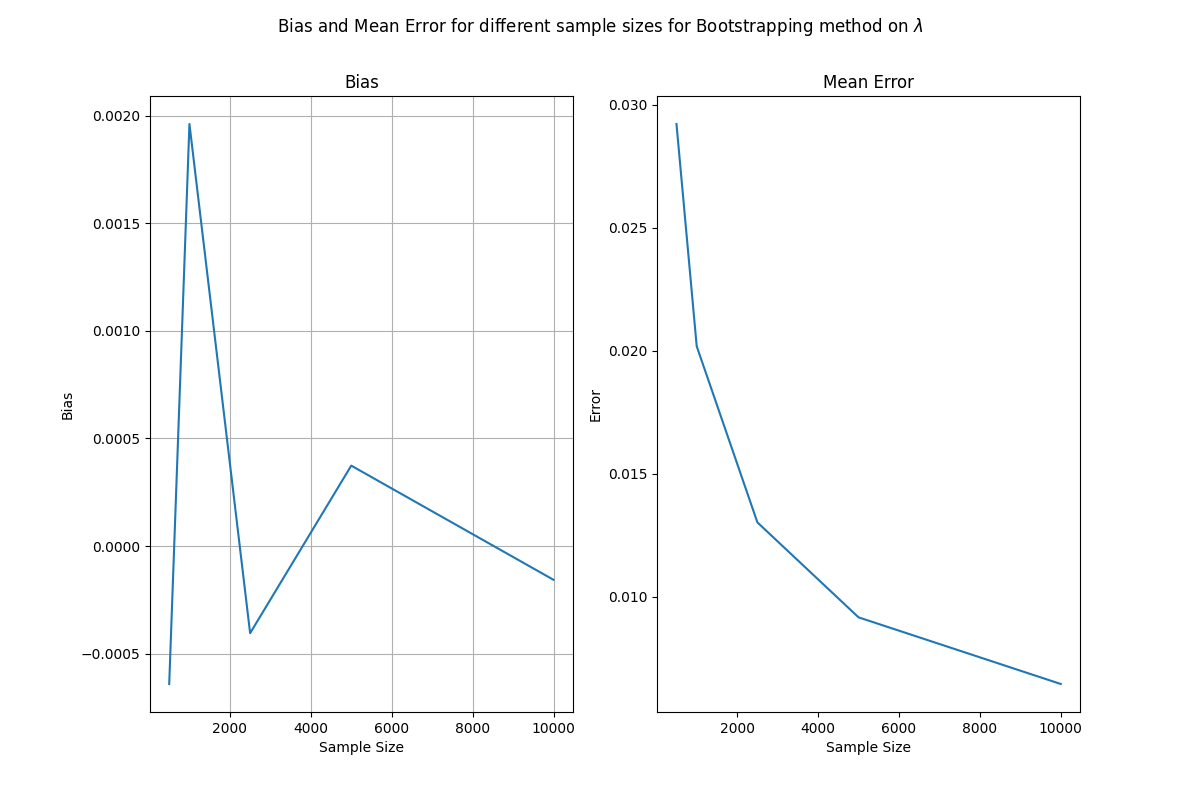
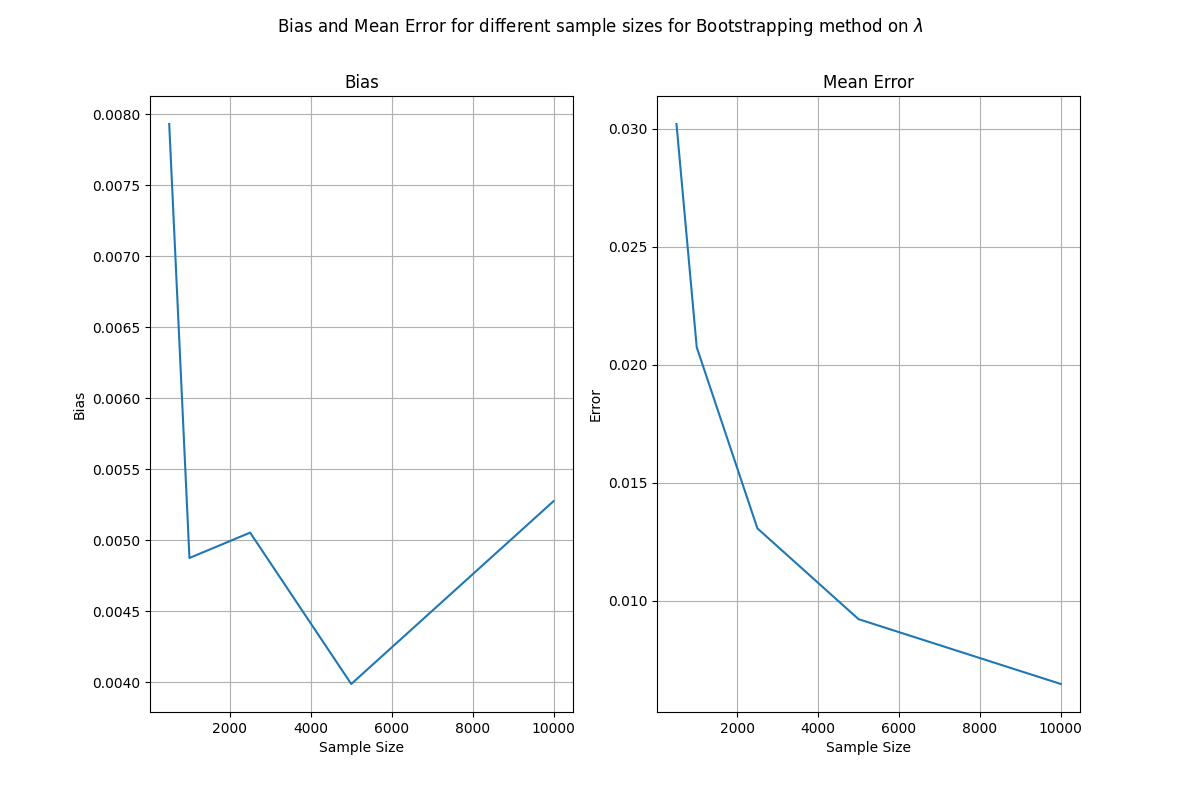
modified sWeight implementation

diff --git a/code/sweight_projection.py b/code/sweight_projection.py
@@ -1,7 +1,7 @@
 import numpy as np
 from generate_sample import fitting, generate_sample
 from tqdm import tqdm
-from sweights import Cows 
+from sweights import SWeight, Cows 
 from total_model import TotalModel
 from iminuit import Minuit
 from iminuit.cost import ExtendedUnbinnedNLL
@@ -47,8 +47,24 @@ def get_sweights(x, lamb = 0.3, mu_b = 0, sigma_b = 2.5):
     mi = fitting_x(x)
     model = TotalModel(*mi.values['mu','sigma', 'beta','m','f'], lamb, mu_b, sigma_b)
 
-    sw = Cows(x, model.gs, model.gb)
-    return sw(x)
+    # sw = Cows(x, model.gs, model.gb)
+    N = mi.values['N']
+    f = mi.values['f']
+    N_signal = N * f
+    N_background = N * (1 - f)
+    def x_signal_pdf(x_vals):
+        return model.gs(x_vals)
+    
+    def x_background_pdf(x_vals):
+        return model.gb(x_vals)
+    
+    sweighter = SWeight(x, pdfs=[x_signal_pdf, x_background_pdf], yields=[N_signal, N_background])
+
+    weights = sweighter.get_weight(0,x)
+    
+    # return sw(x)
+
+    return weights
 
 def estimate_y(x, y):
     '''

diff --git a/code/analyze_efg.py b/code/analyze_efg.py
@@ -27,8 +27,8 @@ ax1.set_xlabel("Sample Size")
 ax1.set_ylabel("Error")
 plt.suptitle('Bias and Mean Error for different sample sizes for Bootstrapping method on $\lambda$')
 output_file = output_dir / "e_bootstrape_plot.png"  
-plt.savefig(output_file)   
 ax1.grid(True)
+plt.savefig(output_file)  
 plt.show()
 
 error_sweight = np.load('code/sweight_errors.npy')
@@ -56,8 +56,9 @@ ax1.set_ylabel("Error")
 ax1.set_xlabel("Sample Size")
 plt.suptitle('Bias and Mean Error for different sample sizes for SWeighting method on $\lambda$', fontsize=16)
 output_file = output_dir / "f_sweight_plot.png"  
-plt.savefig(output_file) 
+
 ax1.grid(True)
+plt.savefig(output_file) 
 plt.show()
 
 #Mixed bias and mean error plot

diff --git a/code/bootstrape.py b/code/bootstrape.py
@@ -16,11 +16,11 @@ def bootstrape(toys,mi):
         mi_t = fitting(toy[0],toy[1])
         lambda_hat = mi_t.values["lamb"]
         lambda_err = mi_t.errors["lamb"]
-        values.append(lambda_hat) 
+        values.append(lambda_hat)
         errors.append(lambda_err)
     return np.array(values), np.array(errors)
 
-
+ 
 x, y = generate_sample(100000)
 mi = fitting(x, y)
 print(*mi.values[1:])
@@ -44,7 +44,7 @@ for size in sample_sizes:
     values, errors = bootstrape(toys, mi)
     val.append(values)
     err.append(errors)
-    
+     
 
 np.save('code/bootstrap_lambda_values.npy', np.array(val))
 np.save('code/bootstrap_errors.npy', np.array(err))
